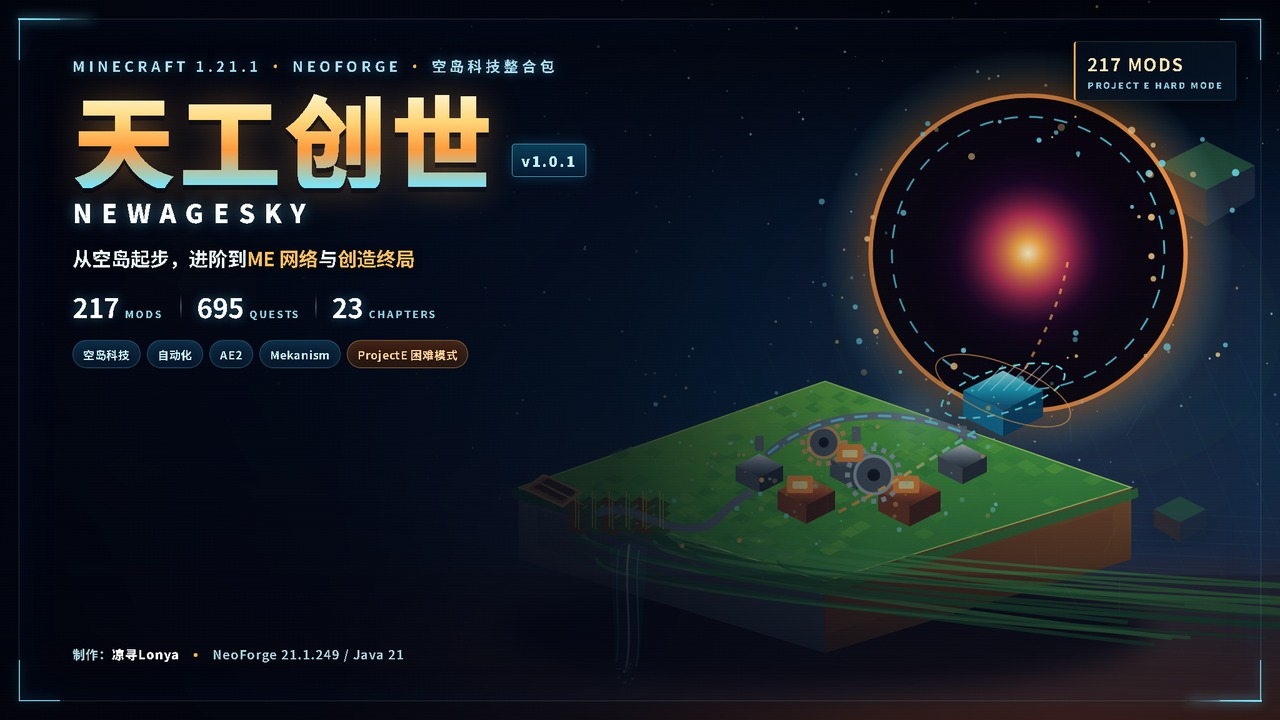
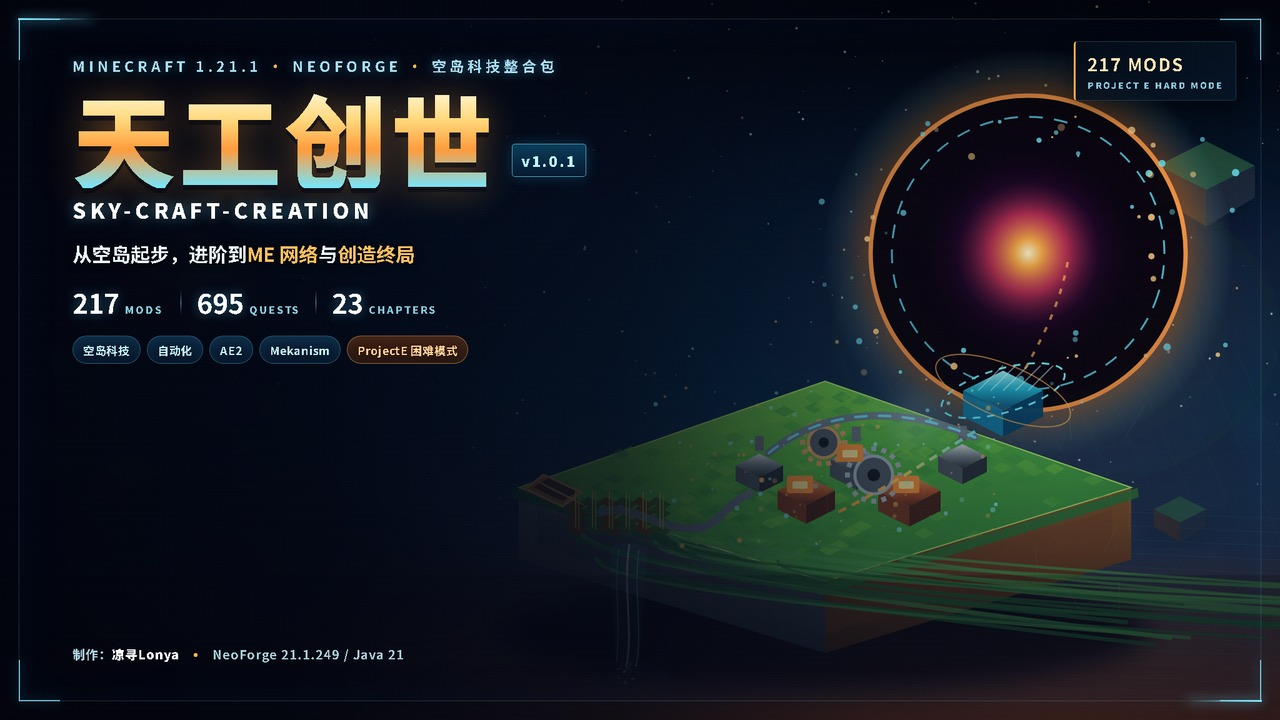
docs: sync sky-craft-creation branding

Changed region(s): [[0.0625, 0.3361, 0.375, 0.5194], [0.0625, 0.275, 0.3125, 0.3056]]

diff --git a/00-维护/更新流程.md b/00-维护/更新流程.md
@@ -3,7 +3,7 @@
 ## 当前版本
 - 版本号：1.0.1
 - 安装包：01-整合包\天工创世-1.0.1-CurseForge.zip
-- SHA-256：603EF5AA4B59F15A9F38EAEE3F8C6CF7B0A51059982714CDAC8CA195B89D3DD7
+- SHA-256：16BE722D9DDED1C6AECC219B93C37FFA03AD1AEBA8464809D13B5904C82682E5
 - 封面：封面\天工创世-1.0.1-封面-1280x720.jpg
 - 更新日志：04-更新日志\1.0.1.txt
 
@@ -23,7 +23,7 @@
 5. 删除旧安装包和旧封面，只保留当前版本。
 6. 运行开发源包 tools\render_release_cover.py，使用 tools\cover-template.html 生成唯一封面。
 7. 更新 03-校验\SHA256.txt，并新建 04-更新日志\<版本号>.txt；日志正文只写日期和本次更新内容。
-8. 运行开发源包中的 tools\validate_release_downloads.py。
+8. 运行 tools\audit_curseforge_projects.py 检查项目是否下架，再运行 tools\validate_release_downloads.py 检查下载源。
 9. 提交并推送开发源仓库与发布仓库，删除旧标签，仅保留当前版本标签。
 
 ## 发布渠道
@@ -33,3 +33,9 @@ BBSMC、MCMOD、CurseForge。不要生成或维护 Modrinth 包。
 - 第一行写日期：YYYY-MM-DD。
 - 后续只写本次新增、修改、删除内容。
 - 不写 SHA-256、发布渠道、安装方法、历史版本或重复的整合包介绍。
+## 下架模组处理
+- 先运行 tools\audit_curseforge_projects.py。
+- 状态为 project_missing 或 file_missing 的模组，从开发源包 mods 目录复制对应 JAR 到安装包 overrides\mods。
+- 从 manifest.json 的 files 列表中移除该项目，确保同一模组不会同时远程下载和随包提供。
+- 重新计算随包模组数量和 SHA-256，更新 02-说明、03-校验和 04-更新日志。
+- 再次运行 tools\validate_release_downloads.py 确认远程与本地数量一致。
